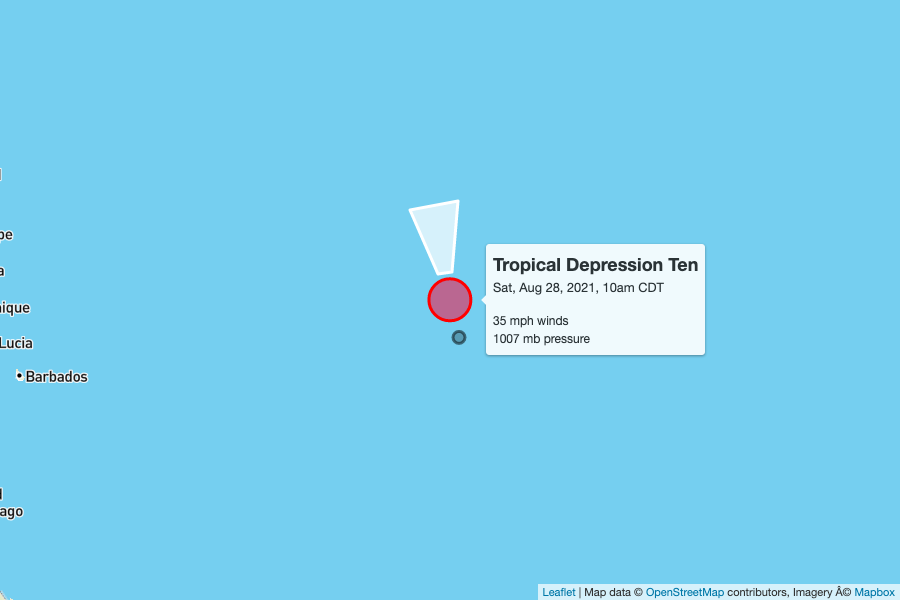
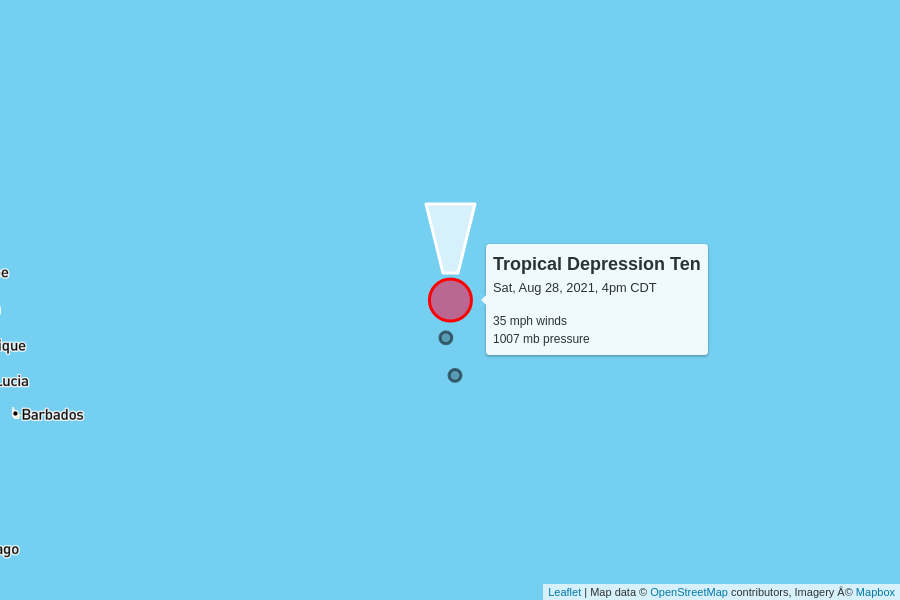
regular update

diff --git a/docs/index.html b/docs/index.html
@@ -95,7 +95,7 @@
         <td colspan="6" class="storm category-2">
           <h2>
             Hurricane Ida - Category 2
-            <p class="updated">last updated   Saturday, August 28, 2021, 1:00 pm CDT</p>
+            <p class="updated">last updated   Saturday, August 28, 2021, 4:00 pm CDT</p>
           </h2>
         </td>
       </tr>
@@ -109,12 +109,12 @@
       </tr>
       <tr>
         <td class="spacer"></td>
-        <td>100 mph</td>
+        <td>105 mph</td>
         <td>976 mb</td>
         <td>
           16 mph to the northwest
           <br/>
-          <span style="display: inline-block; font-size: 1.5em; rotate: 315deg;">↑</span>
+          <span style="display: inline-block; font-size: 1.5em; rotate: 320deg;">↑</span>
         </td>
         <td><a href="https://raw.githubusercontent.com/mgwalker/atlantic-hurricanes/main/data/csv/AL092021.csv">AL092021.csv</a></td>
         <td><a href="https://www.nhc.noaa.gov/archive/2021/IDA.shtml?">NHC advisories</a></td>
@@ -131,7 +131,7 @@
         <td colspan="6" class="storm category-0">
           <h2>
             Tropical Depression Ten
-            <p class="updated">last updated   Saturday, August 28, 2021, 10:00 am CDT</p>
+            <p class="updated">last updated   Saturday, August 28, 2021, 4:00 pm CDT</p>
           </h2>
         </td>
       </tr>
@@ -150,7 +150,7 @@
         <td>
           8 mph to the undefined
           <br/>
-          <span style="display: inline-block; font-size: 1.5em; rotate: 350deg;">↑</span>
+          <span style="display: inline-block; font-size: 1.5em; rotate: 360deg;">↑</span>
         </td>
         <td><a href="https://raw.githubusercontent.com/mgwalker/atlantic-hurricanes/main/data/csv/AL102021.csv">AL102021.csv</a></td>
         <td><a href="https://www.nhc.noaa.gov/archive/2021/TEN.shtml?">NHC advisories</a></td>
